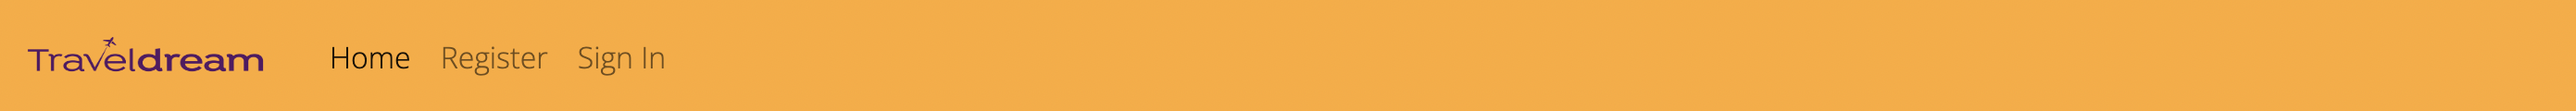
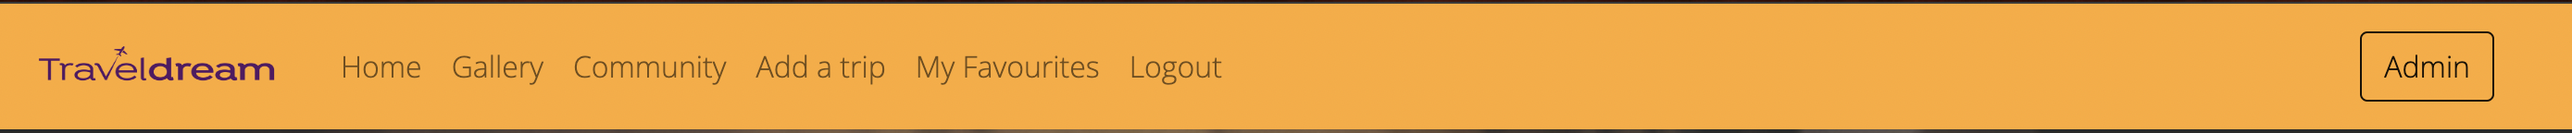
updated features, wireframes and testing sections of the README

diff --git a/README.md b/README.md
@@ -40,32 +40,27 @@ There are 6 EPICS and 13 USER STORIES.
 - USER STORIES:
 1. As a user I can create an account so that I can interact with the website with likes, comments and creating my own posts.(Create Account #16)
 2. As a registered user I can login and logout of the site so that I can access my content.(LogIn/LogOut #28)
+3. As a registered user, I can view the profiles of the members of the community so that I can find out more about the authors of the posts.(View Community Members #29)
 
 3.EPIC: Create landing page to attract users to the site.
 - USER STORIES:
 1. As a site admin I can provide a clear idea of what the website is about so that users know what to expect from it.(Create a Landing Page #15)
 
 4.EPIC: Enable registered users to CRUD their own trips.
-
 - USER STORIES:
-
 1. As a registered user I can CRUD my own trips so that I can manage my own content.(Create Post #17)
 
-5.EPIC: Create a trips list to provide content to users.
-
+5.EPIC: Create a trips list and gallery to provide content to users.
 - USER STORIES:
-
 1. As a user I can view a list of articles so that I can select the contents I like and see what the site’s purpose is.(View Pagination #19)
+2. As a user I can go to the Gallery Page so that I can see pictures posted by the admin.(Gallery #30)
 
 6.EPIC: Enable registered users to interact with trips posts to enhance UX.
-
 - USER STORIES:
-
 1. As a registered user I can like/unlike posts so that I can engage with the site content.(Like/Unlike Post #23)
-
 2. As a registered user I can comment a post so that I can engage with the community and be involved.(Comment Post#21)
-
 3. As a registered user I can add a picture to my post so that I can create a more visually interesting content.(Image Uploading#25)
+4. As a Registered User, I can save my favourites posts so that I can find them easily. (Favourites #31)
 
 **Strategy**
 
@@ -83,111 +78,136 @@ The user will first see the Home Page where the purpose of the website is made c
 Both registered and unregistered users can read the posts, but only registered users can interact with them by leaving a comment or liking the post itself.
 Post detail page contains details of the post, comments and number of likes.
 
-The "Add a trip" page is accessible only for registered users. This page can be accessed by clicking the 'Add a trip' button in the navigation bar which is only visible for a registered user. After creating the post, the user can see it on the Home Page. Users are able to edit or delete their own posts by clicking the Edit/Delete button located underneath the post. These buttons are only visible to the owner of the post.
+The "Add a trip" page is accessible only for registered users. This page can be accessed by clicking the 'Add a trip' button in the navigation bar which is only visible for a registered user. After creating the post, the user can see it on the Home Page. Users are able to edit or delete their own posts by clicking the Edit/Delete button located underneath the post. These buttons are only visible to the owner of the post. Registered users are also able to save their own favourite posts on a personal page where they can easily find what the contents they liked the most. Every registered users has also a profile section where they can share a short bio and choose a profile picture. For all users there is also a carousel gallery page that allows them to see a selection of pictures selected by the admin and representing different areas of the planet.
 
 **WIREFRAMES**
 - - -
 
-**Home Page: Desktop - Not logged in view**
+**Home Page**
 
-![Alternate text](/static/images/Home%20-%20Desktop%20-%201.png)
+![Alternate text](/static/images/home.png)
 
-**Second Page: Desktop - Not logged in view**
 
-![Alternate text](/static/images/Second%20page%20-%20Desktop.png)
+**Post Page**
 
-**Home Page: Desktop - Logged in view**
-
-![Alternate text](/static/images/Home-Desktop%20-%202.png)
-
-**Post Page: Desktop - Not logged in view**
-
-![Alternate text](/static/images/Article%20Page%20-%20Desktop%20-%201.png)
-
-**Post Page: Desktop - Logged in view**
-
-![Alternate text](/static/images/Article%20Page%20-%20Desktop%20-%202.png)
+![Alternate text](/static/images/post_detail.png)
 
 **Add Trip Form: Desktop**
 
-![Alternate text](/static/images/Add%20trip%20form.png)
+![Alternate text](/static/images/add_a_trip.png)
 
-**Home Page: Mobile**
+**Community Page**
 
-![Alternate text](/static/images/Home%20-%20Mobile.png)
+![Alternate text](/static/images/community.png)
+
+**Profile Page**
+
+![Alternate text](/static/images/profile_page.png)
+
+**Profile edit Page**
+
+![Alternate text](/static/images/profile_edit.png)
+
+**Carousel Gallery Page**
+
+![Alternate text](/static/images/carousel_gallery.png)
 
 
 **FEATURES**
 - - -
 
- - Navigation menu
+- Navigation menu
  
- The navigation menu is clear and consistent throughout the site to provide the users an easy navigation. Links to Home, Add a trip, Register and Sign In/Out are available. If the user is not signed in the Sign in and Register links are visible in the navbar. If the user is signed in the Sign In and Register links are replaced by a Log Out link and the Add a trip link is visible. While the Logo will be always displayed in any screen, the other links that the user can find in the bar, will switch to hamburger on tablets and mobiles.
+The navigation menu is clear and consistent throughout the site to provide the users an easy navigation. Links to Home, Add a trip, Register and Sign In/Out are available. If the user is not signed in the Sign in and Register links are visible in the navbar. If the user is signed in the Sign In and Register links are replaced by a Log Out link and the Add a trip link is visible. While the Logo will be always displayed in any screen, the other links that the user can find in the bar, will switch to hamburger on tablets and mobiles.
 
- ![Alternate text](/static/images/navbar.png)
+![Alternate text](/static/images/navbar.png)
 
- - Footer
+- Footer
 
- At the bottom of the page we can find the footer with the links to direct the user to the Facebook, Instagram and Twitter pages.
+At the bottom of the page we can find the footer with the links to direct the user to the Facebook, Instagram and Twitter pages.
  
- ![Alternate text](/static/images/footer.png)
+![Alternate text](/static/images/footer.png)
 
- - Home Page
+- Home Page
 
- 1.A hero image is displayed at the top of the page with overlay text welcoming the user to the website. Right below the users can also find a short description of the purpose of the page and what they will find on it.
+A hero image is displayed at the top of the page with overlay text welcoming the user to the website. Right below the users can also find a short description of the purpose of the page and what they will find on it.
 
 ![Alternate Text](/static/images/home_page.png)
 
- - Trips section
+- Trips section
  
- Right below the brief description of the purpose of the page, the users will find a list of six posts per page(max.) to avoid loading time issues.
+Right below the brief description of the purpose of the page, the users will find a list of six posts per page(max.) to avoid loading time issues.
 
- ![Alternate text](/static/images/trips_section.png)
+![Alternate text](/static/images/trips_section.png)
 
- - Add a trip form
+- Add a trip form
  
- When the users are logged in, they can see on the navigation bar the option "Add a trip". Simply by clicking on it the form opens and the user can enter all the fields to add a post and create a new content which will be displayed on the website.
+When the users are logged in, they can see on the navigation bar the option "Add a trip". Simply by clicking on it the form opens and the user can enter all the fields to add a post and create a new content which will be displayed on the website.
 
- ![Alternate text](/static/images/form.png)
+![Alternate text](/static/images/form.png)
  
- - Post Detail page
+- Post Detail page
  
- Accessed by any user simply by clicking on the post itself. The not logged in users can also read the approved comments right below the post. If the user is logged in, instead, there is another function that allows to press the Like button and leave a comment regarding the post. The comments entered here need to be reviewed by the site owner before being displayed in this post detail page.
+Accessed by any user simply by clicking on the post itself. The not logged in users can also read the approved comments right below the post. If the user is logged in, instead, there is another function that allows to press the Like button and leave a comment regarding the post. The comments entered here need to be reviewed by the site owner before being displayed in this post detail page.
 
- ![Alternate text](/static/images/post_detail.png)
+![Alternate text](/static/images/detail_post.png)
 
- ![Alternate text](/static/images/comments_section.png)
+- Comment Section
 
- - Edit Post page
+When the user is registered, a box to leave a comment to the post will be displayed right under the post.
 
- The Edit post page is accessed by edit post button which is available in the post detail page and it's visible for the user's own post only so that the post can only be edited by its own user or by superuser using the admin page. If the user confirms the changes made to the post, will be redirected to the Home Page and a message will show below the navbar to inform that the post was succesfully edited.
+![Alternate text](/static/images/comments_section.png)
 
- ![Alternate text](/static/images/edit_delete.png)
+- Edit Post page
 
- - Delete Post Page
+The Edit post page is accessed by edit post button which is available in the post detail page and it's visible for the user's own post only so that the post can only be edited by its own user or by superuser using the admin page. If the user confirms the changes made to the post, will be redirected to the Home Page and a message will show below the navbar to inform that the post was succesfully edited.
 
- The owner of the post also have another button available, which is the Delete Post button. If the user clicks on it a Delete Post page displays and asks the user for confirmation to delete the post. Users can either click on "Yes, delete post!" or cancel and go back to the Home Page. 
- If the user confirms to delete the post, will be redirected to the Home Page and a message will show below the navbar to inform that the post was deleted.
+![Alternate text](/static/images/edit_delete.png)
 
- ![Alternate text](/static/images/edit_delete.png)
+- Delete Post Page
 
- - Register Page
+The owner of the post also have another button available, which is the Delete Post button. If the user clicks on it a Delete Post page displays and asks the user for confirmation to delete the post. Users can either click on "Yes, delete post!" or cancel and go back to the Home Page. 
+If the user confirms to delete the post, will be redirected to the Home Page and a message will show below the navbar to inform that the post was deleted.
 
- This page can be opened from the register button in the navigation bar. New visitors are simply asked to enter username, password and password confirmation to register. Email field can be left blank as it is optional. Once successfully registered, users will be redirected to the Home Page and have access to all the features available for registered users.
+![Alternate text](/static/images/edit_delete.png)
 
- ![Alternate text](/static/images/signup.png)
+- My Favourites Page
 
- - Sign In Page
+When the users are registered and logged in, a bookmark icon will display on the post detail page, right between the star and comment icons. Simply by clicking on it, the users will be able to add a specific post to their favourites, so that it can be easily found. In order to remove the article from the list of favourites, the users only need to click on the bookmark icon a second time.
 
- The Sign In button can be accessed to login. Username and password will be required. On successful login, users will be redirected to the Home Page and a message to inform them that they logged in successfully will be displayed under the navigation bar.
+![Alternate text](/static/images/favourites_page.png)
 
- ![Alternate text](/static/images/signin.png)
+- Community Page
 
- - Sign Out Page
+Registered users can share something about them.
+By clicking on the Community tab on the Navbar, the user will get access to the Community page. This page has a list of registered members with a profile picture and a “view profile” button. By clicking on it, the user will be able to read a short bio and the favourites countries of the author selected.
+Each user’s profile is created at the moment of their registration. Each profile is created empty, but all the fields can be left blank if the user doesn’t want to share any information with others. In order to update their own profiles, users have to click on their username, which is displayed on the right side of the navbar. Once the update has been submitted, the user will be directed to the home page and a message will be displayed to confirm the successful update.
 
- Once a user is logged in, the Sign In button in the navigation bar will be replaced with the Logout button. If they want to logout all they need to do is simply click this button and confirm to sign out. Once again, users will be redirected to the Home Page and a message to inform them that they logged out successfully will be displayed under the navigation bar.
+![Alternate text](/static/images/community.png)
 
- ![Alternate text](/static/images/signout.png)
+- Gallery Page
+
+The gallery page displays a little carousel gallery with some images chosen by the site’s owner.  The user can enjoy a picture that represents an area of the world, such as Asia, Oceania, Europe, Africa, Middle East, North America, Central America, South America and Antarctica.
+
+![Alternate text](/static/images/gallery_page.png)
+
+- Register Page
+
+This page can be opened from the register button in the navigation bar. New visitors are simply asked to enter username, password and password confirmation to register. Email field can be left blank as it is optional. Once successfully registered, users will be redirected to the Home Page and have access to all the features available for registered users.
+
+![Alternate text](/static/images/signup.png)
+
+- Sign In Page
+
+The Sign In button can be accessed to login. Username and password will be required. On successful login, users will be redirected to the Home Page and a message to inform them that they logged in successfully will be displayed under the navigation bar.
+
+![Alternate text](/static/images/signin.png)
+
+- Sign Out Page
+
+Once a user is logged in, the Sign In button in the navigation bar will be replaced with the Logout button. If they want to logout all they need to do is simply click this button and confirm to sign out. Once again, users will be redirected to the Home Page and a message to inform them that they logged out successfully will be displayed under the navigation bar.
+
+![Alternate text](/static/images/signout.png)
  
 
 **TECHNOLOGIES USED**
@@ -231,7 +251,7 @@ The forms are working in each section of the project.
 
 HTML: No errors were returned when passing through the official W3C Validator.
 
-![Alternate text](/static/images/html_responsive.png)
+![Alternate text](/static/images/home_page_responsive.png)
 
 CSS: No errors were returned when passing through the official (Jigsaw) Validator.
 
@@ -245,7 +265,7 @@ All the .py files are validated in the PEP8 online validator replacement provide
 
 - apps.py
 
-![Alternate text](/static/images/apps.png)
+![Alternate text](/static/images/app.png)
 
 - forms.py
 
